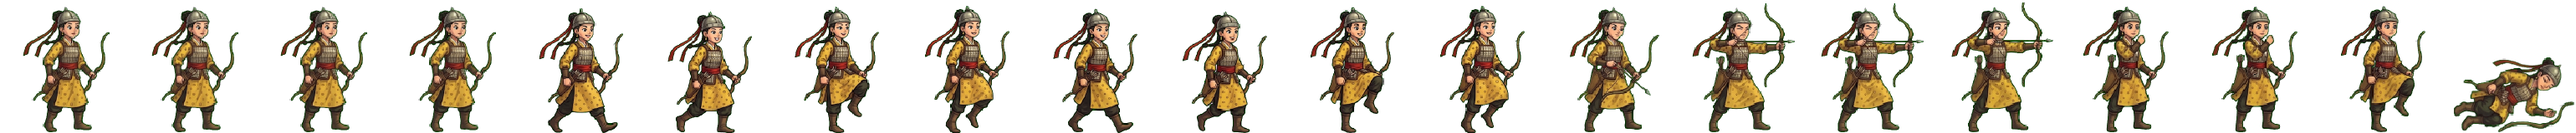
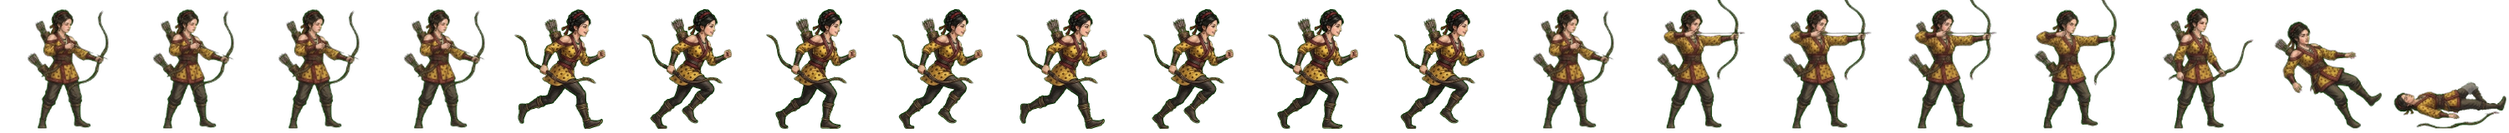
전투 띠 다시: 송비 초상대로 (붉은 댕기 땋은 머리·노란 점무늬 · 투구를 벗기고 어깨를 드러낸 옷 · 활 당기기) (형 11-08)
Claude-Session: https://claude.ai/code/session_01TRiuNAG8xSjdmjCFpc8Rd5

diff --git a/src/realm/data/art.ts b/src/realm/data/art.ts
@@ -477,7 +477,7 @@ export const GEN_ANIM: Readonly<Partial<Record<string, { ar: number; body: numbe
   soseono: { ar: 178 / 160, body: 0.941 }, // 11-04 제 띠 (걷기 A 는 Argon · 서기·공격 B 와 쓰러짐은 edu 3.1 Pro 에 A 를 참조로 · 걷기는 네 자세가 두 번 돈다 — 반대 다리로 다시 받은 장은 옷이 바뀌어 버림)
   aryeong: { ar: 159 / 160, body: 0.928 }, // 11-04 제 띠 (edu 3.1 Pro · 마젠타 바탕 — 초록 깃을 지키려고 · 바닥 선은 줄째 지움 · 걷기 일곱 자세 + 넷째를 여덟째로)
   haedal: { ar: 149 / 160, body: 0.900, bow: true }, // 11-08 초상대로 다시 (형: 「투구 쓰고 원본과 다르다」 · 제미나이 걷기 4×2 + 동작 4×2 → 20컷 · assets_src/realm/gemini/generals2) · 전투 옷은 더 드러나게 (형 11-08)
-  songbi: { ar: 154 / 160, body: 0.934, bow: true }, // 11-04 제 띠 (edu 3.1 Pro · 노란 둥근 무늬 옷·붉은 댕기 · 첫 장은 땅딸막하고 활을 가로로 들어 버림 — 「모델처럼 키 큰」「활은 세워」를 머리말에 넣어 새 대화로)
+  songbi: { ar: 150 / 160, body: 0.900, bow: true }, // 11-08 초상대로 다시 (형: 「투구 쓰고 원본과 다르다」 · 제미나이 걷기 4×2 + 동작 4×2 → 20컷 · assets_src/realm/gemini/generals2) · 전투 옷은 더 드러나게 (형 11-08)
   hyeokgeose: { ar: 147 / 160, body: 0.921 }, // 11-04 제 띠 (roqkfeke12 u/0 자동 모드 · 흰 비단·보랏빛 깃·곡옥·긴 머리 · 쇠투구)
   oi: { ar: 159 / 160, body: 0.961 }, // 11-04 제 띠 (u/0 · 깃털 다발 쇠투구·붉은 테 미늘·짧은 수염 · 창)
   mari: { ar: 161 / 160, body: 0.968 }, // 11-04 제 띠 (u/0 · 상투·머리띠·콧등 칼자국·밧줄 타래·푸른 삼베 · 맞음 컷은 창을 둘 쥐고 나와 막기 컷으로 · 찌르기 창끝이 조금 잘림)

diff --git a/src/ui/realm/battle-strikes.ts b/src/ui/realm/battle-strikes.ts
@@ -129,7 +129,7 @@ const RELEASE: Readonly<Record<string, [number, number, number]>> = {
   'gen-g-bow': [14, .82, .35], 'gen-w-bow': [13, .87, .31],
   'gen-jumong': [14, .87, .35], 'gen-maenun': [14, .88, .34],
   'gen-ogan': [14, .87, .32], 'gen-haedal': [14, 0.91, 0.26],
-  'gen-songbi': [14, .86, .34], 'gen-damul': [14, .86, .34],
+  'gen-songbi': [14, 0.91, 0.24], 'gen-damul': [14, .86, .34],
   'gen-songyang': [14, .86, .34],
 }
 // Extended weapon position in the contact cell, in each strip's native coordinate system.
